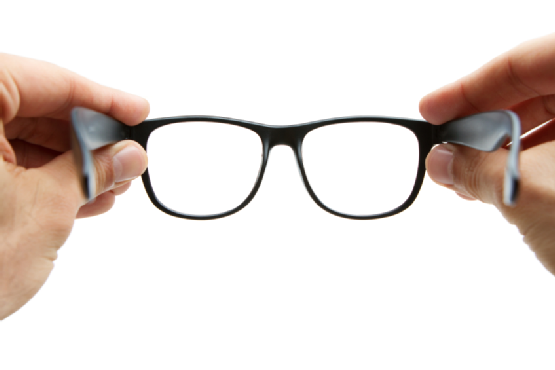
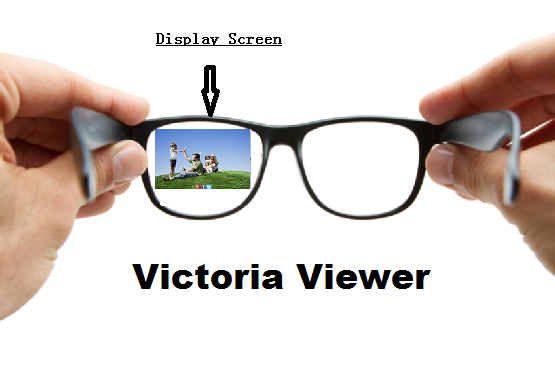
able to make call, still working on

Changed region(s): [[0.2144, 0.7135, 0.7964, 0.8027], [0.2757, 0.1784, 0.4595, 0.5351], [0.2757, 0.0892, 0.5207, 0.1486]]

diff --git a/js/events.js b/js/events.js
@@ -59,8 +59,8 @@ function file(){
   this.sentMessage = sentMessage;
 }
 function loadPage(svgId, page){
+  document.getElementById("mainSvg").style.background = "black";
   var svg = d3.select("body").select(svgId);
-  console.log(111);
   $("#mainSvg").empty();
   $("#inforSvg").empty();
   remvoeElement("imgDiv");
@@ -70,31 +70,34 @@ function loadPage(svgId, page){
   svg.selectAll(".text")
           .data(page)
           .enter().append("text")
+            .attr("class","personalDisplayOption")
             .attr("id","personalDisplayOption")
-            .attr("fill", "blue")
+            .attr("fill", "white")
             .attr("font-size",20)
             .attr("x", function(d){return d.x})
             .attr("y",function(d){return d.y})
             .text(function(d) { return d.option})
             .attr("onmouseover","evt.target.setAttribute('opacity', '0.5')")
             .attr("onmouseout","evt.target.setAttribute('opacity','1)')")
-            .on("click",function(d) {doEvent(d.option, d.instruction)});
+            .on("click",function(d) {doEvent(d.option, d.instruction, d.use)});
 }
 function loadImage(imageAdd,id) {
   if(document.getElementById("image"+id)!=null){
     return;
   }
   var div = document.createElement("div");
-  div.id = "imgDiv";
+  div.id = "imgDiv"+id;
     var img = document.createElement("img");
     img.id = "image"+id;
     img.src = imageAdd;
     div.appendChild(img);
     document.body.appendChild(div);
 }
-   // <img id="picture" src="data/glasses.png">
+function loadVoiceIcon(){
+  loadImage("data/voiceIcon.png","Voice");
+}
 
-function doEvent(option, instruction){
+function doEvent(option, instruction, use){
   if(instruction==null){
     return;
   }
@@ -104,7 +107,8 @@ function doEvent(option, instruction){
   $("svg#inforSvg").empty();
   addInstruction(instruction);
   if(option==="Making Call"){
-      makingCall();
+      makingCall(personalPage());
+  
   }
   else if(option==="Google It"){
       iframe( "http://www.google.com/custom?q=&btnG=Search");
@@ -155,6 +159,7 @@ function removeIframe(){
 }
 }
 function remvoeElement(id){
+  console.log(111)
   var element = document.getElementById(id);
   if(element!=null && element.parentNode!=null){
       element.parentNode.removeChild(element);
@@ -178,8 +183,7 @@ function addInstruction(instruction){
     d3.select("body").select("#inforSvg").selectAll(".text")
           .data(instruction)
           .enter().append("text")
-            .attr("id","personalDisplayOption")
-            .attr("fill", "blue")
+            .attr("fill", "white")
             .attr("font-size",20)
             .attr("x",x)
             .attr("y",y)
@@ -189,42 +193,76 @@ function addInstruction(instruction){
 function showPowerPoint(){
   iframe("data/slides-victoria-viewer.html");
 }
-function makingCall(){
+function makingCall(callBack){
+  // toggleDisplay("mainSvg", block);
 
+  $(".personalDisplayOption").toggle();
+  var x = 150;
+  var y = 300;
+  console.log(personal[0].use[0]);
+
+   for(var i = 0; i<personal[0].use.length; i++){
+      doSetTimeOut(i);
+    }
+    function doSetTimeOut(index){
+      setTimeout(function() {
+        remvoeElement("command");
+          var txt = personal[0].use[index];
+          var t = d3.select("body").select("#mainSvg")
+            .append("text")
+            .attr("id","command")
+            .attr("fill", "white")
+            .attr("font-size",40)
+            .attr("x",x)
+            .attr("y",y)
+            .text(txt);
+        },3000*index);       
+    } 
 }
+
 function sendMessage(){
-  
+    
 }
+// function toggleDisplay(id, toggle){
+//   $(id).toggle;
+  //document.getElementById(id).style.display = toggle;
+// }
 /**
 zoom home page image, then call loadPage function to load personal or bussiness menues
 **/
 function zoom(page){
-  var imgDiv = document.getElementById("imgDiv");
-  zoomImage();   
-    var img = document.getElementById("imageHome");
-
-    var maxWidth = img.width*1.3;
-    var maxHeight = img.height*1.3;
-    function zoomImage(){
    
-      var zoomTimer = setInterval(function(){
+    var img = document.getElementById("imageHome");
+   // zoomImage();  
+    if(img!=null){
+      
+        var maxWidth = img.width*1.3;
+        var maxHeight = img.height*1.3;
+        
+            var zoomTimer = setInterval(function(){
 
-        if(img!=null && img.width<maxWidth){
-          img.width = img.width*1.005;
-          img.height = img.height*1.005;
+                if(img!=null && img.width<maxWidth){
+                    img.width = img.width*1.005;
+                    img.height = img.height*1.005;
      
-      }
-      else {
-        clearInterval(zoomTimer);
-        remvoeElement("imgDiv");
+                }
+                else {
+                    clearInterval(zoomTimer);
+                    remvoeElement("imgDivHome");
+                    loadPage("#mainSvg", page);
+                }},20);
+        
+     }
+    else if(img==null && document.getElementById("imagePicture")!=null){
+        remvoeElement("imgDivPicture");
+        remvoeElement("goBackButton");
         loadPage("#mainSvg", page);
 
+    }
+
+    else if(img==null && document.getElementById("imagePicture")==null){
+        loadPage("#mainSvg", page);
+        loadVoiceIcon();
+
       }
-    }, 20);
   }
-
-  if(imgDiv==null||img==null) {
-    loadPage("#mainSvg", page);
-  }
-
-}

diff --git a/js/pages.js b/js/pages.js
@@ -3,21 +3,27 @@
 // - 
 // =================================================================================
 function personalPage(){
-  zoom(personal);
+	//loadPage("#MainSvg", personal);
+  	zoom(personal);
 }
 function businessPage(){
- zoom(business);
+    //loadPage("#MainSvg", business);
+	zoom(business);
 }
 function homePage(){
-  loadPage("#inforSvg", home);
-  remvoeElement("imgDiv");
-  loadImage("data/glasses-Copy.png","Home");
+  	loadPage("#inforSvg", home);
+  	 document.getElementById("mainSvg").style.background = "white";
+  	remvoeElement("imgDivHome");
+  	remvoeElement("imgDivVoice")
+  	loadImage("data/glasses.png","Home");
 }
 function contactUsPage(){
-  loadPage("#inforSvg", contactUsInfo);
-  loadImage("data/glasses.png","Home");
+  	loadPage("#inforSvg", contactUsInfo);
+  	document.getElementById("mainSvg").style.background = "white";
+  	loadImage("data/glasses.png","Home");
 }
 function teamPage(){
-  loadPage("#inforSvg", teamMembers);
-  loadImage("data/glasses.png","Home");
+  	loadPage("#inforSvg", teamMembers);
+  	document.getElementById("mainSvg").style.background = "white";
+  	loadImage("data/glasses.png","Home");
 }

diff --git a/style.css b/style.css
@@ -113,7 +113,7 @@ html {
   left:10.9%;
   width: 80%;
 	height: 58%;
-	background-color: black;
+	background-color: white;
   margin: 0 auto;
   border: 4px solid gray;
 
@@ -166,7 +166,7 @@ html {
   font-size: 60px;
   background-color: white;
 }
-#imgDiv { 
+#imgDivHome { 
   position: relative; 
   top: 10%;
   left:2%;
@@ -191,6 +191,20 @@ position: fixed;
 }
 #imageHome {
   top: 30%;
+}
+#imgDivVoice {
+  position: fixed;
+  top: 75%;
+  left:24%;
+  width: 5%;
+  height: 5%;
+}
+#imageVoice {
+  position: fixed;
+  top: 75%;
+  left: 24%;
+  width: 5%;
+  height: 5%;
 }
 /*********************************************************************************/
 /* stock trading                                                                 */

diff --git a/js/readFile.js b/js/readFile.js
@@ -36,6 +36,5 @@ var myjson = d3.json("data/victoriaViewer.json", function(json){
   contactUsInfo = json.contactUs;
   sentMessage = json.sentMessage;
   home = json.home;
-  console.log(contactUsInfo)
   });
   
